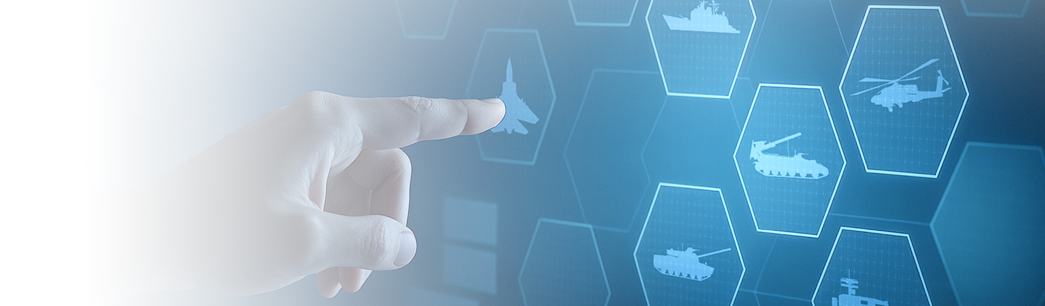
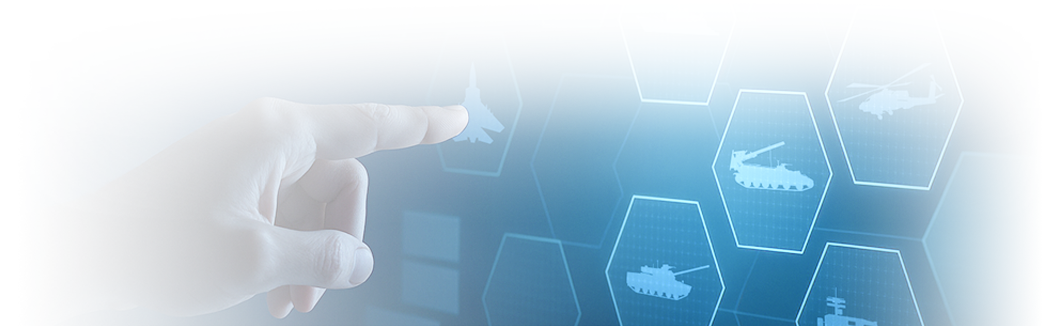
Доработал фотографии

diff --git a/src/03-widgets/main-slider/ui/main-slider.component.scss b/src/03-widgets/main-slider/ui/main-slider.component.scss
@@ -5,6 +5,10 @@
   position: relative;
   z-index: 0;
 
+  .container {
+    mix-blend-mode: screen;
+  }
+
   .title {
     color: var(--light-text-color);
     font-size: 40px;
@@ -16,15 +20,14 @@
     flex-direction: column;
     gap: 20px;
     padding-top: 80px;
+    padding-left: 30px;
   }
 
   .image-wrapper {
-    background-image: var(--bg-gradient-base);
     position: relative;
 
     .slide-image {
       height: 100%;
-      mix-blend-mode: screen;
       object-fit: cover;
       width: 100%;
     }
